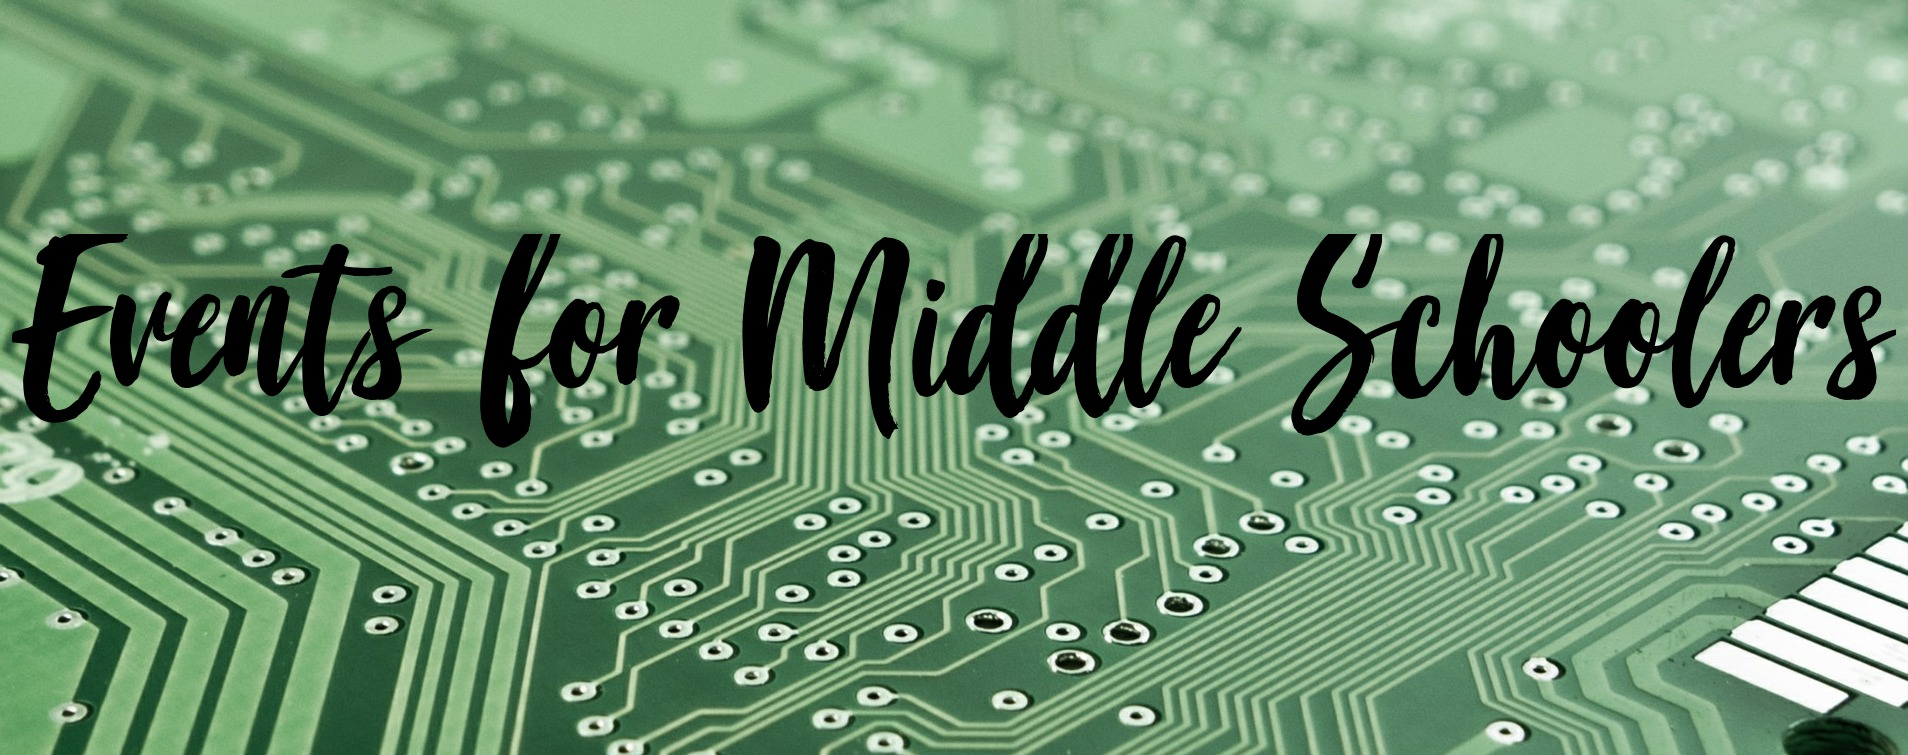
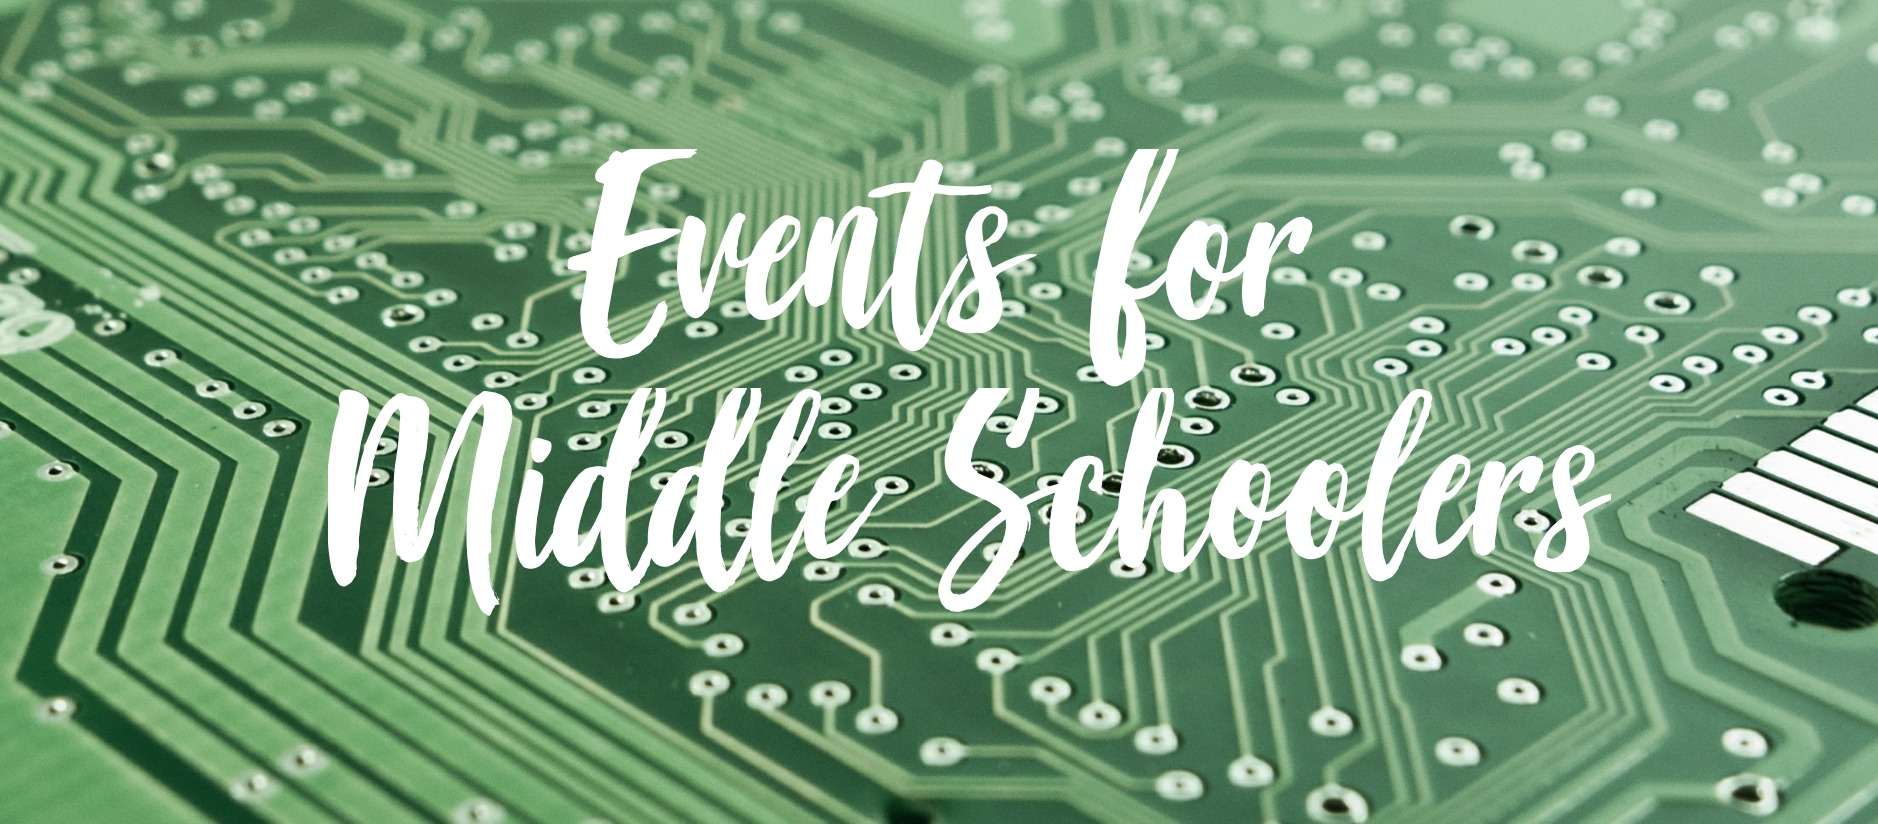
updates lol

diff --git a/style.css b/style.css
@@ -13,7 +13,7 @@ background-color: lightblue
 }
 
 body {
-    background-color: grey;
+    background-color: white;
 
 }
 
@@ -103,7 +103,7 @@ a{
 
   color: #F1F1F2;
 }
-p {
+p{
     font-family: "Times New Roman", Times, serif;
     font-size: 25px;
     color: white;
@@ -133,7 +133,7 @@ mark{
 }
 .box{
 background-color: black;
-background: silver;
+background: white;
 text-align: center;
 color: #5da2d5;
 
@@ -141,7 +141,10 @@ background-color: black;
 
 }
 
+p{
 
+
+}
 
 
 .button:hover{
@@ -181,6 +184,17 @@ img {
     height: auto;
 }
 
+iframe{
+  position:relative;
+  top: 50px;
+   left: 100px;
+  align-items: center;
+}
 
+p #online{
+  position: relative;
+  right: 80px; 
+  text-align: right;
+}
 </style>
 </head>

diff --git a/steMHK.html b/steMHK.html
@@ -22,10 +22,10 @@
 
       <dix class="buttons">
 
-            <a href="ms.html"><button class="button button1"><mark>Grade</mark> Schoolers</button>
+            <a href="gs.html"><button class="button button1"><mark>Grade</mark> Schoolers</button>
             <a href="ms.html"><button class="button button2" ><mark>Middle</mark> Schoolers</button>
             <a href="hs.html"><button class="button button3"><mark>High</mark><br>Schoolers</button>
-            <a href="online.html">  <button class = "button button4"> <mark>Online</mark> Resources</button>
+            <a href="online.html"><button class = "button button4"> <mark>Online</mark> Resources</button>
 
       </div>
 

diff --git a/online.html b/online.html
@@ -16,10 +16,11 @@
 <!-- Box with text under Banner-->
     <div class="box">
 
-      <p1>  <br>   S T E M &emsp;e v e n t s &emsp;i n &emsp;<mark>M a n h a t t a n , K a n s a s</mark> <br> <br><p1>
+      <p1>  <br>  L e a r n &emsp;<mark>A n y w h e r e </mark> <br> <br><p1>
       </div>
 
-
+      <iframe width="560" height="315" src="https://www.youtube.com/embed/nKIu9yen5nc" frameborder="0" allow="autoplay; encrypted-media" allowfullscreen left: 10px></iframe>
+      <p id= "online">Online coding <mark> resources</mark></p
 
 
 
